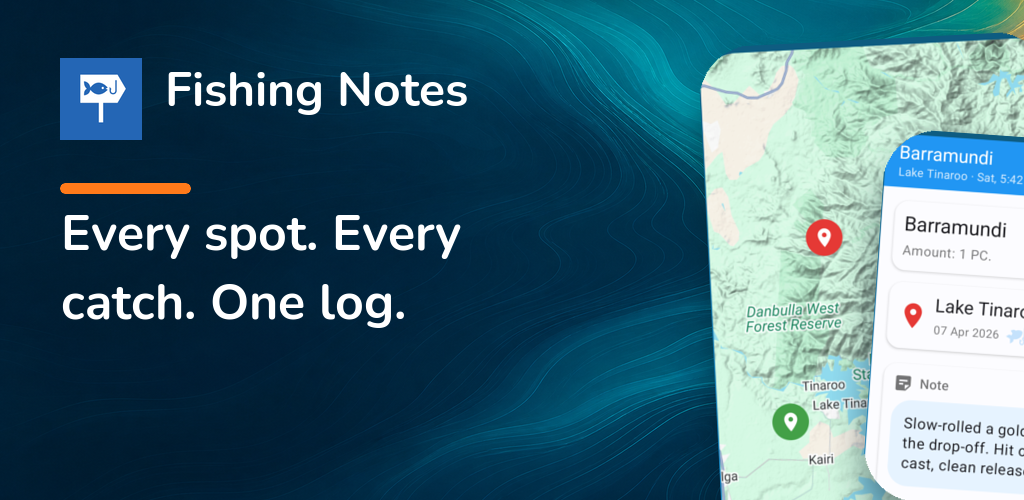
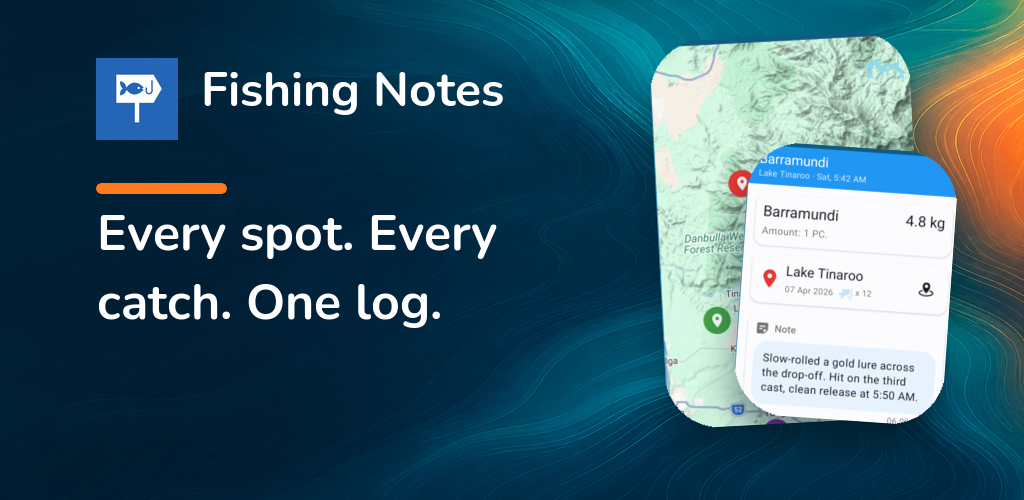
assets: tighten Play feature safe area

diff --git a/docs/superpowers/plans/2026-07-17-play-store-assets.md b/docs/superpowers/plans/2026-07-17-play-store-assets.md
@@ -213,11 +213,13 @@ make_screenshot() {
   local source_image="$2"
   local headline="$3"
   local point_size="$4"
+  local crop="${5:-860x1764+67+374}"
+  local panel_width="${6:-920}"
   local stem
   stem="$(basename "$destination" .png)"
 
   make_portrait_background "$TMP/${stem}-background.png"
-  make_panel "$source_image" '860x1764+67+374' 920 "$TMP/${stem}-panel.png"
+  make_panel "$source_image" "$crop" "$panel_width" "$TMP/${stem}-panel.png"
   add_shadow "$TMP/${stem}-panel.png" "$TMP/${stem}-panel-shadow.png"
   make_headline "$headline" "$point_size" "$TMP/${stem}-headline.png"
 
@@ -239,6 +241,7 @@ make_screenshot() {
     -alpha off \
     -colorspace sRGB \
     -depth 8 \
+    -define png:exclude-chunk=date,time \
     "PNG24:$destination"
 }
 
@@ -246,7 +249,9 @@ make_screenshot \
   "$OUT/01-spots.png" \
   "$ROOT/docs/store-assets/02-map.png" \
   'Never lose a great spot.' \
-  82
+  82 \
+  '860x1400+67+700' \
+  920
 
 make_screenshot \
   "$OUT/02-catches.png" \
@@ -258,7 +263,9 @@ make_screenshot \
   "$OUT/03-details.png" \
   "$ROOT/docs/store-assets/04-notes.png" \
   'Keep every detail.' \
-  86
+  86 \
+  '860x1688+67+450' \
+  920
 
 make_screenshot \
   "$OUT/04-weather.png" \
@@ -267,7 +274,7 @@ make_screenshot \
   86
 
 make_portrait_background "$TMP/story-background.png"
-make_panel "$ROOT/docs/store-assets/04-notes.png" '860x1764+67+374' 760 "$TMP/story-log.png"
+make_panel "$ROOT/docs/store-assets/04-notes.png" '860x1688+67+450' 760 "$TMP/story-log.png"
 make_panel "$ROOT/docs/store-assets/03-catch.png" '860x1320+67+374' 440 "$TMP/story-catch.png"
 add_shadow "$TMP/story-log.png" "$TMP/story-log-shadow.png"
 add_shadow "$TMP/story-catch.png" "$TMP/story-catch-shadow.png"
@@ -295,6 +302,7 @@ magick "$TMP/story-background.png" \
   -alpha off \
   -colorspace sRGB \
   -depth 8 \
+  -define png:exclude-chunk=date,time \
   "PNG24:$OUT/05-story.png"
 
 magick "$LANDSCAPE_BG" \
@@ -305,8 +313,8 @@ magick "$LANDSCAPE_BG" \
   -colorspace sRGB \
   "$TMP/feature-background.png"
 
-make_panel "$ROOT/docs/store-assets/02-map.png" '860x1280+67+374' 350 "$TMP/feature-map.png"
-make_panel "$ROOT/docs/store-assets/03-catch.png" '860x1120+67+374' 285 "$TMP/feature-catch.png"
+make_panel "$ROOT/docs/store-assets/02-map.png" '860x1280+67+374' 260 "$TMP/feature-map.png"
+make_panel "$ROOT/docs/store-assets/03-catch.png" '860x1120+67+374' 210 "$TMP/feature-catch.png"
 add_shadow "$TMP/feature-map.png" "$TMP/feature-map-shadow.png"
 add_shadow "$TMP/feature-catch.png" "$TMP/feature-catch-shadow.png"
 
@@ -325,31 +333,32 @@ magick \
 
 magick "$TMP/feature-background.png" \
   -fill '#FF7A1A' \
-  -draw 'roundrectangle 60,183 190,193 5,5' \
+  -draw 'roundrectangle 96,183 226,193 5,5' \
   "$TMP/feature-icon.png" \
   -gravity northwest \
-  -geometry +60+58 \
+  -geometry +96+58 \
   -composite \
   -font "$FONT_BOLD" \
   -pointsize 48 \
   -fill white \
   -gravity northwest \
-  -annotate +165+72 'Fishing Notes' \
+  -annotate +201+72 'Fishing Notes' \
   "$TMP/feature-tagline.png" \
   -gravity northwest \
-  -geometry +60+215 \
+  -geometry +96+215 \
   -composite \
   "$TMP/feature-map-rotated.png" \
   -gravity northwest \
-  -geometry +660+15 \
+  -geometry +610+15 \
   -composite \
   "$TMP/feature-catch-rotated.png" \
   -gravity northwest \
-  -geometry +820+112 \
+  -geometry +690+125 \
   -composite \
   -alpha off \
   -colorspace sRGB \
   -depth 8 \
+  -define png:exclude-chunk=date,time \
   "PNG24:$OUT/feature-1024x500.png"
 
 printf '%s\n' \